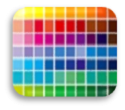
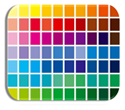
Modificando pantalla de catalogos e img de colores

diff --git a/resources/views/catalogos/catalogos.blade.php b/resources/views/catalogos/catalogos.blade.php
@@ -24,37 +24,19 @@
                 <tr>
                     <th><a href="../administracion/color"> <center><img src="{{asset('images/colores.png')}}" alt="colores" class="img-responsive"/></center></a></th>
                     <th><a href="../administracion/buscar_ubicacion"><center><img src="{{asset('images/organiz.png')}}" alt="ubicacion_organizacional" class="img-responsive"/></center></a></th>
-                    <th><a href="../administracion/contable"><center><img src="{{asset('images/cuentas.png')}}" alt="cuentas contables" class="img-responsive"/></center></a></th>
+                   {{-- <th><a href="../administracion/contable"><center><img src="{{asset('images/cuentas.png')}}" alt="cuentas contables" class="img-responsive"/></center></a></th>
                     <th><a href=""><center><img src="{{asset('images/dpto.png')}}" alt="departamentos" class="img-responsive"/></center></a></th>
                     <th><a href="../administracion/buscar_usuario"><center><img src="{{asset('images/financia.jpg')}}" alt="fuente de financiamiento" class="img-responsive"/></center></a></th>
-                    <th><a href=""><center><img src="{{asset('images/clase_bien.jpg')}}" alt="clase de bien" class="img-responsive"/></center></a></th>
+                    <th><a href=""><center><img src="{{asset('images/clase_bien.jpg')}}" alt="clase de bien" class="img-responsive"/></center></a></th>--}}
                 </tr>             
                 <tr align="center">
                     <td>Colores</td>
                   <td>Ubicaci&oacute;n Organizacional</td>
-                  <td>Cuentas Contables</td>
+                  {{--<td>Cuentas Contables</td>
                   <td>Departamentos</td>
                   <td>Fuente de Financiamiento</td>
-                  <td>Clase de Bien</td>
-                </tr>
-                <tr>                    
-                    <th><a href="../administracion/buscar_usuario"><center><img src="{{asset('images/tipo_bm.jpg')}}" alt="tipo de bien mueble" class="img-responsive"/></center></a></th>
-                    <th><a href=""><center><img src="{{asset('images/ubicacion.jpg')}}" alt="ubicacion de bien mueble" class="img-responsive"/></center></a></th>
-                    <th><a href=""><center><img src="{{asset('images/tipo_bi.jpg')}}" alt="tipo de bien inmueble" class="img-responsive"/></center></a></th>
-                                        
-                    <th> <a href="#ingreso" data-toggle="modal">
-                         <center><img src="{{asset('images/ayuda.jpg')}}" alt="ayuda" class="img-responsive"/></center>
-                        </a>
-                    </th>
-                    <th><a href="{{route('usuario_app/salir')}}"><center><img src="{{asset('images/salir.jpg')}}" alt="salir" class="img-thumbnail"/></center></a></th>
-                </tr>  
-                 <tr align="center">                    
-                  <td>Tipo de Bien Mueble</td>
-                  <td>Ubicación de Bien Mueble</td>
-                  <td>Tipo de Bien Inmueble</td>                  
-                  <td>Ayuda</td>
-                  <td>Salir</td>
-                </tr>
+                  <td>Clase de Bien</td>--}}
+                </tr>                
             </table>
         </div>
         <!--fin tabla de menu-->
